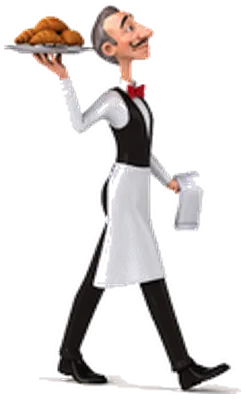
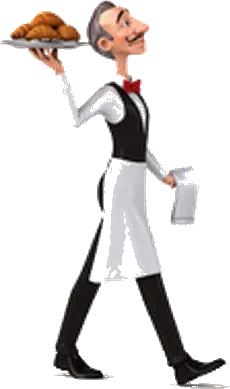
Sacar el piquete, dejar a Chaky/Cepi/Lale/Pinky solo como jefes y limpiar sprites de secuaces

Changed region(s): [[0.0, 0.0, 1.0, 1.0], [0.5174, 0.5553, 0.5478, 0.5861]]

diff --git a/3d/js/level.js b/3d/js/level.js
@@ -13,38 +13,31 @@ export const LEVELS = [
   { id: 2, name: 'FRANCIA', minX: 152, maxX: STREET_MAX_X, start: 156 }
 ];
 
-// Portones: cajones (se derrumban) y el piquete (cubiertas con fuego)
+// Portones: cajones rompibles al despejar cada zona (sin piquete)
 export const GATES = [
   { x: 64, kind: 'crates' },
-  { x: 118, kind: 'piquete' },
   { x: 204, kind: 'crates' },
   { x: 256, kind: 'crates' }
 ];
 
 // Oleadas en orden. gate = índice del portón que abren al despejarse.
-// La banda son tres amigos de Facu: Pinky el trapito (te cobra el estacionamiento), Lale (manteca) y Cepi (pelotazos de pádel).
-// Pocos por tanda (18 en total) y nunca dos iguales a la vez.
+// Chaky, Cepi, Lale y Pinky son únicamente JEFES de sus arenas; en la calle pelean sus secuaces.
 export const WAVES = [
-  { id: 'vereda', level: 1, trigger: 22, gate: null, title: 'LA VEREDA', text: '¡Llegó la banda de BIG CHAKY!',
-    spawns: [{ dx: 9, dz: -0.8, kind: 'pinky' }] },
-  { id: 'vereda-2', level: 1, trigger: 50, gate: 0, title: 'MANTECA EN LA VEREDA', text: 'Lale y Pinky te cortan el paso.',
-    spawns: [{ dx: 9, dz: 1.2, kind: 'lale' }, { dx: 8, dz: -1, kind: 'pinky' }] },
-  { id: 'avenida', level: 1, trigger: 72, gate: null, title: 'LA AVENIDA', text: 'Cuidado con el colectivo: no frena.',
-    spawns: [{ dx: 9, dz: -1.5, kind: 'cepi' }, { dx: -8, dz: 1.5, kind: 'pinky' }] },
-  { id: 'piquete', level: 1, trigger: 106, gate: 1, title: '¡PIQUETE!', text: 'Sacá a la banda para que levanten el corte.',
-    spawns: [{ dx: 7, dz: -2, kind: 'lale' }, { dx: 8, dz: 2, kind: 'cepi' }, { dx: 5, dz: 0, kind: 'pinky' }] },
-  { id: 'le-concept', level: 1, trigger: 126, gate: null, endsLevel: true, title: '¡ÚLTIMA PARADA: EL AEROPUERTO!', text: 'La banda no te deja subir al avión.',
-    spawns: [{ dx: 8, dz: 0, kind: 'pinky' }, { dx: 9, dz: 2.2, kind: 'cepi' }] },
+  { id: 'vereda', level: 1, trigger: 22, gate: null, title: 'LA VEREDA', text: '¡Llegaron los secuaces de BIG CHAKY!',
+    spawns: [{ dx: 9, dz: -0.9, kind: 'secuaz' }, { dx: 11, dz: 1.1, kind: 'secuaz' }] },
+  { id: 'vereda-2', level: 1, trigger: 50, gate: 0, title: 'SEGURIDAD VIP', text: 'Un patovica y su secuaz cortan la vereda.',
+    spawns: [{ dx: 9, dz: 1.1, kind: 'patovica' }, { dx: 8, dz: -1.1, kind: 'secuaz' }] },
+  { id: 'avenida', level: 1, trigger: 76, gate: null, title: 'LA AVENIDA', text: 'Cuidado con el colectivo: no frena.',
+    spawns: [{ dx: 9, dz: -1.4, kind: 'bombo' }, { dx: -8, dz: 1.4, kind: 'secuaz' }] },
+  { id: 'le-concept', level: 1, trigger: 122, gate: null, endsLevel: true, title: '¡ÚLTIMA PARADA: EL AEROPUERTO!', text: 'Los secuaces no te dejan subir al avión.',
+    spawns: [{ dx: 8, dz: -0.6, kind: 'patovica' }, { dx: 10, dz: 1.6, kind: 'bombo' }] },
 
-  { id: 'francia', level: 2, trigger: 162, gate: null, title: 'LA RUE', text: '¡La banda te siguió hasta Francia!',
-    spawns: [{ dx: 8, dz: 0, kind: 'pinky' }, { dx: 9, dz: -1.2, kind: 'lale' }] },
-  { id: 'francia-2', level: 2, trigger: 186, gate: 2, title: 'PELOTAZOS', text: 'Cepi y Lale tiran desde lejos: acercate rápido.',
-    spawns: [{ dx: 10, dz: 1.5, kind: 'cepi' }, { dx: 9, dz: -2, kind: 'lale' }] },
-  // Mini-jefe a mitad del nivel 2: Cepi «el Niño», el hermano de Facu, viene re caliente (y con el BYD roto)
-  { id: 'boulevard', level: 2, trigger: 212, gate: null, title: 'LE BOULEVARD', text: '¡Ojo! Viene el hermano de Facu…',
-    spawns: [{ dx: 10, dz: 0, kind: 'cepiJefe' }] },
-  { id: 'boulevard-2', level: 2, trigger: 238, gate: 3, title: 'ÚLTIMO TRAMO', text: 'Atrás de esta barrera está el galpón.',
-    spawns: [{ dx: 8, dz: -1.5, kind: 'pinky' }, { dx: 10, dz: 1.8, kind: 'lale' }, { dx: 11, dz: 0, kind: 'cepi' }] }
+  { id: 'francia', level: 2, trigger: 162, gate: null, title: 'LA RUE', text: '¡Secuaces en las calles de París!',
+    spawns: [{ dx: 8, dz: 0.4, kind: 'mozo' }, { dx: 10, dz: -1.3, kind: 'secuaz' }] },
+  { id: 'francia-2', level: 2, trigger: 186, gate: 1, title: 'CAMINO A LE BLÉ', text: 'Mozos y deliverys cuidan la panadería.',
+    spawns: [{ dx: 10, dz: 1.4, kind: 'mozo' }, { dx: 9, dz: -1.6, kind: 'delivery' }] },
+  { id: 'boulevard-2', level: 2, trigger: 238, gate: 2, title: 'ÚLTIMO TRAMO', text: 'Atrás de esta barrera está el galpón.',
+    spawns: [{ dx: 8, dz: -1.4, kind: 'patovica' }, { dx: 10, dz: 1.6, kind: 'delivery' }, { dx: 11, dz: 0, kind: 'bombo' }] }
 ];
 
 // Trampas. zone: tramo donde actúan las que aparecen solas.

diff --git a/3d/index.html b/3d/index.html
@@ -156,14 +156,14 @@
     "./js/cine.js": "./js/cine.js?v=b2b270758e",
     "./js/config.js": "./js/config.js?v=bb2b804d27",
     "./js/cover.js": "./js/cover.js?v=4d127fb3de",
-    "./js/enemies.js": "./js/enemies.js?v=bbd389fecd",
+    "./js/enemies.js": "./js/enemies.js?v=361705abcc",
     "./js/fx.js": "./js/fx.js?v=a0d302f894",
     "./js/hero.js": "./js/hero.js?v=802a148d80",
     "./js/i18n.js": "./js/i18n.js?v=56da08c726",
     "./js/input.js": "./js/input.js?v=c0a7d85f0d",
     "./js/items.js": "./js/items.js?v=744f5cdca9",
-    "./js/level.js": "./js/level.js?v=161558c0e1",
-    "./js/main.js": "./js/main.js?v=cd808fce46",
+    "./js/level.js": "./js/level.js?v=799b4d10ba",
+    "./js/main.js": "./js/main.js?v=e3e6963995",
     "./js/margot.js": "./js/margot.js?v=a2e597b1e5",
     "./js/music.js": "./js/music.js?v=039559a383",
     "./js/poses.js": "./js/poses.js?v=8d8b21ac9a",
@@ -171,7 +171,7 @@
     "./js/props.js": "./js/props.js?v=e03d82f977",
     "./js/psycho.js": "./js/psycho.js?v=d1498103b4",
     "./js/ranking.js": "./js/ranking.js?v=d01e475eeb",
-    "./js/score.js": "./js/score.js?v=c1f5e15c09",
+    "./js/score.js": "./js/score.js?v=1f1adf9e0d",
     "./js/skins.js": "./js/skins.js?v=089ee1748e",
     "./js/sprites.js": "./js/sprites.js?v=3781f74b04",
     "./js/story.js": "./js/story.js?v=e32fcf9721",
@@ -183,6 +183,6 @@
   }
 }
   </script>
-  <script type="module" src="js/main.js?v=cd808fce46"></script>
+  <script type="module" src="js/main.js?v=e3e6963995"></script>
 </body>
 </html>

diff --git a/3d/js/main.js b/3d/js/main.js
@@ -576,13 +576,11 @@ function updateZones() {
     if (st === 'idle' && x > w.trigger) {
       game.waves[w.id] = 'active';
       game.enemies.spawnWave(w.id);
-      if (w.id === 'piquete') game.banner(w.title, w.text);
       break;
     }
     if (st === 'active' && game.enemies.alive() === 0) {
       game.waves[w.id] = 'cleared';
       if (w.gate != null) openGate(w.gate);
-      if (w.id === 'piquete') game.banner('¡PASO LIBRE!', 'Seguí hacia el aeropuerto.');
       // Margot (carita del HUD) se pone contenta
       game.margot.cheer();
       if (w.endsLevel) {
@@ -802,12 +800,11 @@ game.onBossDown = () => {
 const STAGES = {
   vereda: { wave: 'vereda', at: 24 },
   avenida: { wave: 'avenida', at: 74 },
-  piquete: { wave: 'piquete', at: 108 },
-  'le-concept': { wave: 'le-concept', at: 128 },
+  'le-concept': { wave: 'le-concept', at: 120 },
   francia: { wave: 'francia', at: 164 },
   'francia-quiet': { upTo: 'francia', at: 170 },
-  boulevard: { wave: 'boulevard', at: 214 },
-  'boulevard-quiet': { upTo: 'boulevard', at: SECRET_X - 6 },
+  boulevard: { wave: 'boulevard-2', at: 234 },
+  'boulevard-quiet': { upTo: 'francia-2', at: SECRET_X - 6 },
   galpon: { upTo: WAVES[WAVES.length - 1].id, at: GALPON_X + 8, boss: true }
 };
 const ALIASES = { plaza: 'avenida', 'plaza-quiet': 'boulevard-quiet' };

diff --git a/3d/js/enemies.js b/3d/js/enemies.js
@@ -16,7 +16,7 @@ export const KINDS = {
   secuaz: { tex: 'face_secuaz_sheet', hp: 3, scale: 1, speed: 3.2, windup: 0.55, ai: 'melee', points: 'minion', gait: { cadence: 1.5, bob: 0.12, sway: 0.07 } },
   patovica: { tex: 'face_patovica_sheet', hp: 7, scale: 1.3, speed: 2.2, windup: 0.8, ai: 'melee', shove: 14, points: 'patovica', gait: { cadence: 1.1, bob: 0.06, sway: 0.05 } },
   bombo: { tex: 'face_bombo_sheet', hp: 4, scale: 1.05, speed: 2.8, ai: 'bombo', ranged: true, points: 'bombo', gait: { cadence: 2.0, bob: 0.22 } },
-  mozo: { tex: 'face_mozo_sheet', hp: 3, scale: 1, speed: 3.0, ai: 'mozo', ranged: true, points: 'mozo', gait: { cadence: 0, bob: 0 } },
+  mozo: { tex: 'face_mozo_sheet', hp: 3, scale: 1, speed: 3.0, ai: 'mozo', ranged: true, points: 'mozo', gait: { cadence: 1.6, bob: 0.11, sway: 0.06 } },
   lale: { tex: 'courier_lale', hp: 4, scale: 1, speed: 3.0, ai: 'lale', ranged: true, points: 'lale', name: 'LALE «MANTECOSO»', gait: { cadence: 1.5, bob: 0.1, sway: 0.05 } },
   // Los malos de la banda son amigos de Facu: Lale (manteca), Cepi (pelotazos de pádel) y Pinky (trapito)
   cepi: { tex: 'courier_cepi', hp: 4, scale: 1.05, speed: 3.0, ai: 'cepi', ranged: true, points: 'cepi', name: 'CEPI «EL NIÑO»', gait: { cadence: 1.5, bob: 0.1, sway: 0.06 } },

diff --git a/3d/js/score.js b/3d/js/score.js
@@ -1,8 +1,8 @@
 // Puntaje de una partida: valores del diseño (sección 8, Puntaje).
 const KILL = { minion: 100, patovica: 250, bombo: 200, mozo: 200, lale: 200, delivery: 200, cepi: 200, cepiJefe: 600, pinky: 200, boss: 2000 };
-// Cortes de rango (múltiplos de 50). Un recorrido de los dos niveles sin recibir daño da ~22.600:
+// Cortes de rango (múltiplos de 50). Un recorrido sin daño da ~15.050:
 // S ≈ 80 %, A ≈ 62 %, B ≈ 40 % de eso.
-export const RANKS = { S: 14800, A: 11500, B: 7400 };
+export const RANKS = { S: 12000, A: 9300, B: 6000 };
 const PICKUP = { bottle: 50, secret: 500, coin: 10 };
 const MULT_STEP = 0.1;
 const MULT_MAX = 3;

diff --git a/PROJECT_STATUS.md b/PROJECT_STATUS.md
@@ -321,3 +321,10 @@ Base de los cuatro actos en GitHub Pages: `57ae713`. Accesos de prueba: `3d/?pro
   - `node tools/stamp_versions.mjs` y `npm test`: **85/85 pruebas automatizadas en verde** (incluyendo `arena_cepi`, `arena_lale`, `arena_pinky`, `arena`, `assets`, `check_sprites.py`, `campaign-continuity`, `versions`, etc.). Peso total de `3d/assets/`: **10,29 MB** (< 10,5 MB, con carga diferida por arena).
   - Pendiente: validación manual en Safari físico de iPhone.
 - **Rollback**: volver `main` al commit `411ebf4`.
+
+## 2026-11-23 (2) · Sin piquete y secuaces separados de los 4 Jefes
+- **Chau Piquete (`3d/js/level.js`, `3d/js/main.js`)**: eliminado el portón `piquete` (`x = 118`) y su oleada; la avenida de Buenos Aires fluye de corrido hasta la entrada del aeropuerto.
+- **Jefes 100 % exclusivos (`3d/js/level.js`)**: sacados `pinky`, `lale`, `cepi` y `cepiJefe` de las oleadas de la calle. Ahora en las calles pelean los 5 secuaces (`secuaz`, `patovica`, `bombo`, `mozo`, `delivery`) distribuidos en Actos 1, 3 y 4; `mozo` recibió paso natural (`gait`) en `3d/js/enemies.js`.
+- **Limpieza de sprites de secuaces (`3d/assets/face_*_sheet.webp`)**: eliminados los halos blancos y sombras grises pegadas a los pies. **Pendiente de arte**: regenerar los 5 secuaces en estilo Pixar cabezón 3D igual a Douge/Marine cuando se libere la cuota del generador de imágenes (~3h).
+- **Verificación**: `node tools/stamp_versions.mjs`, `npm test` (86/86 en verde, incluyendo nuevo test de invariante sin piquete y sin jefes en calle). Pendiente: prueba manual en Safari físico de iPhone.
+- **Rollback**: volver `main` al commit `4d21e2e`.
